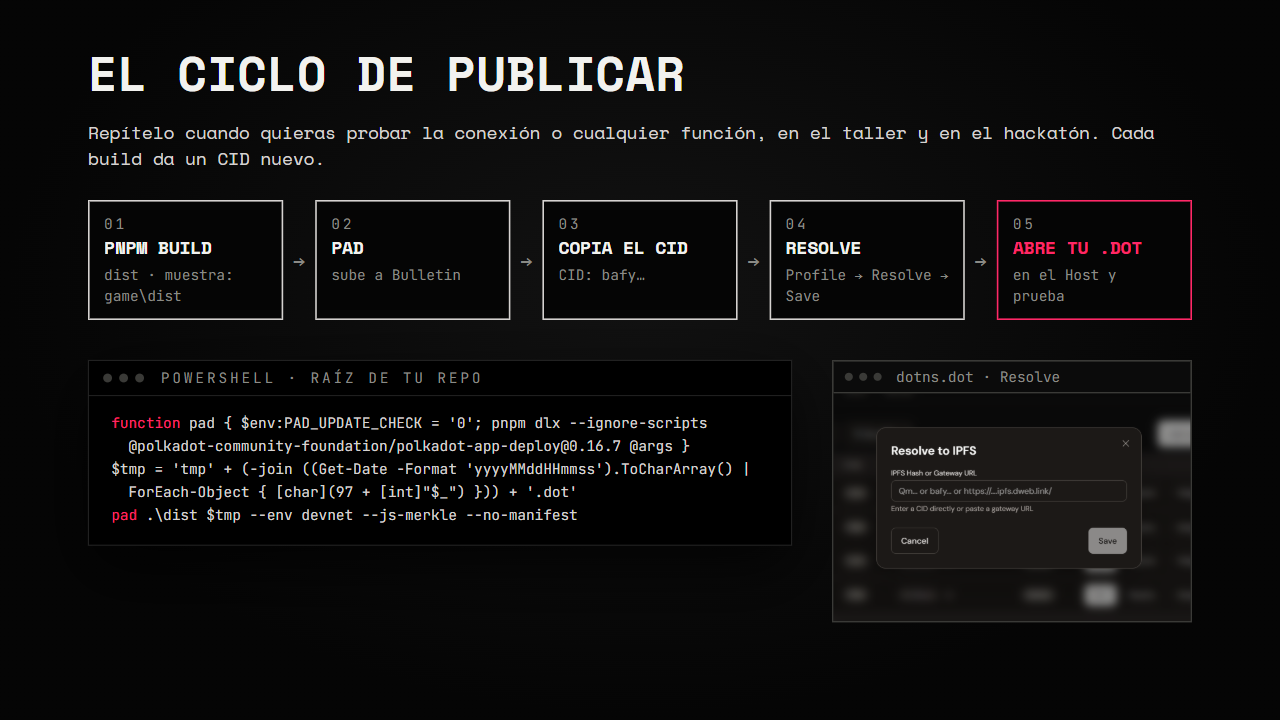
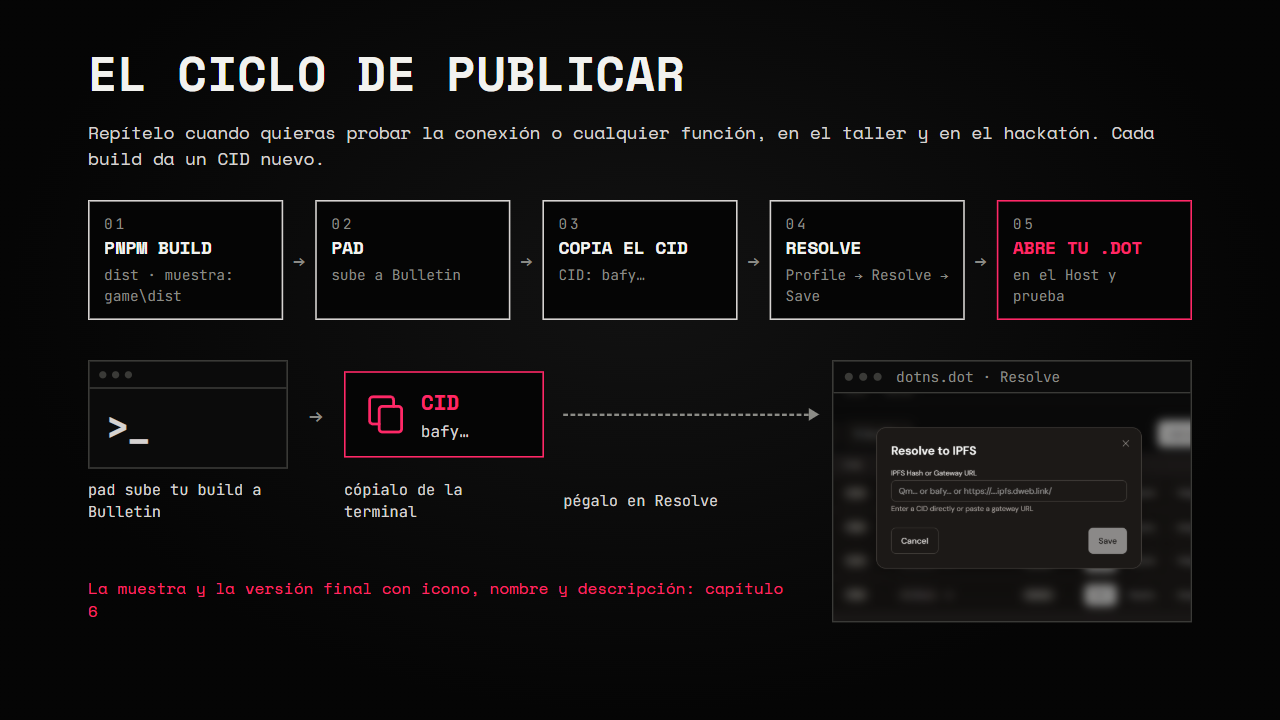
docs(slides): ajustes de diapositivas (portadas visuales, sandbox con hosts, contratos, contexto, skills, publicar)

Changed region(s): [[0.0625, 0.4889, 0.5938, 0.7333], [0.0625, 0.7944, 0.625, 0.825], [0.5938, 0.55, 0.6562, 0.5806]]

diff --git a/slides/06-publicar.html b/slides/06-publicar.html
@@ -88,12 +88,30 @@
 .j-pub span.pink { border-color: var(--accent); color: var(--accent); }
 .j-pub i { font: 700 22px var(--display); font-style: normal; color: var(--muted); }
 
+/* Teléfono */
+.j-phone { border: 2px solid #d6d3d1; border-radius: 42px; padding: 40px 14px 22px; background: #050505; position: relative; }
+.j-phone::before { content: ''; position: absolute; top: 18px; left: 50%; width: 80px; height: 8px; margin-left: -40px; border-radius: 4px; background: #2a2a2a; }
+
 /* ---------- Propias del capítulo 6 ---------- */
-/* Icono en la portada */
-.p6-tile { text-align: center; }
-.p6-tile img { display: block; width: 300px; height: 300px; margin: 0 auto; border-radius: 64px; border: 2px solid #3a3a37; }
-.p6-tile b { display: block; font: 700 30px var(--display); text-transform: uppercase; margin-top: 22px; }
-.p6-tile span { display: block; font: 20px var(--mono); color: var(--muted); margin-top: 6px; }
+/* Portada: la tarjeta de tu app sube a tu dominio */
+.p6-app { text-align: center; padding: 34px 18px 30px; }
+.p6-app img { display: block; width: 150px; height: 150px; margin: 0 auto; border-radius: 34px; border: 2px solid #3a3a37; }
+.p6-app b { display: block; font: 700 30px var(--display); margin-top: 22px; }
+.p6-app span { display: block; font: 19px/1.4 var(--mono); color: #d6d3d1; margin-top: 8px; }
+.p6-app i { display: block; font: 700 20px var(--display); font-style: normal; background: var(--accent); color: #000; padding: 12px 0; margin-top: 26px; text-transform: uppercase; }
+.p6-dom { border: 2px solid var(--accent); background: #050505; color: var(--accent); font: 700 26px var(--mono); padding: 14px 20px; text-align: center; }
+.p6-up { position: absolute; z-index: 2; width: 0; border-left: 3px dashed var(--accent); }
+.p6-up::before { content: ''; position: absolute; left: -10px; top: -4px; border: 8.5px solid transparent; border-bottom: 13px solid var(--accent); border-top: 0; }
+.p6-cloud { position: absolute; z-index: 2; width: 64px; height: 64px; fill: none; stroke: #d6d3d1; stroke-width: 3.5; stroke-linecap: round; stroke-linejoin: round; }
+
+/* Antes y después: la tarjeta a escala de slide, con callouts */
+.p6-card.big { grid-template-columns: 140px 1fr; column-gap: 28px; padding: 32px 34px; border-radius: 24px; }
+.p6-card.big .ic { width: 140px; height: 140px; border-radius: 30px; }
+.p6-card.big b { font-size: 36px; }
+.p6-card.big span { font-size: 22px; margin-top: 8px; }
+.p6-call { position: absolute; z-index: 2; font: 700 20px var(--mono); color: var(--accent); text-transform: uppercase; letter-spacing: .1em; white-space: nowrap; transform: translateX(-50%); }
+.p6-line { position: absolute; z-index: 3; width: 0; border-left: 2px solid var(--accent); }
+.p6-line::after { content: ''; position: absolute; left: -6px; bottom: -6px; width: 10px; height: 10px; border-radius: 50%; background: var(--accent); }
 
 /* Tarjeta de app dibujada */
 .p6-card { display: grid; grid-template-columns: 96px 1fr; column-gap: 22px; align-items: center; border: 2px solid #3a3a37; border-radius: 18px; background: #0b0b0b; padding: 22px 24px; }
@@ -104,10 +122,6 @@
 .p6-card span { display: block; font: 18px/1.4 var(--mono); color: #d6d3d1; margin-top: 6px; }
 .p6-card span.j-mut { color: var(--muted); }
 .p6-card.pink { border-color: var(--accent); }
-.p6-col .j-label { margin-bottom: 18px; }
-.p6-list { margin-top: 22px; }
-.p6-list > div { font: 22px var(--mono); color: #d6d3d1; padding: 16px 0; border-bottom: 1px solid var(--line); }
-.p6-list > div:first-child { border-top: 1px solid var(--line); }
 .p6-arrow { font: 700 56px var(--display); color: var(--accent); }
 
 /* Icono a dos tamaños */
@@ -172,75 +186,48 @@
 
   <!-- 1 · Portada -->
   <section class="slide" data-title="Publica tu app" style="--bgpos: 30% 70%;">
-    <div class="panel" style="left:110px; top:110px; width:820px; padding:46px 60px 50px;">
+    <div class="panel" style="left:110px; top:290px; width:820px; padding:46px 60px 50px;">
       <div class="kicker">Capítulo 06</div>
       <div class="title" style="font-size:80px;">Publica tu app</div>
       <div class="sub">En tu dominio .dot, con icono, nombre y descripción</div>
     </div>
-    <div class="item p6-tile" style="left:1060px; top:120px; width:380px;">
-      <img src="../game/assets/icono.png" alt="Icono de Polka-Man: un personaje redondo rosa comiendo dos bolitas sobre fondo negro">
-      <b>Polka-Man</b>
-      <span>polka-man.dot</span>
+    <div class="item p6-dom" style="left:1110px; top:110px; width:340px;">polka-man.dot</div>
+    <div class="p6-up" style="left:1280px; top:196px; height:88px;" aria-hidden="true"></div>
+    <svg class="p6-cloud" style="left:1310px; top:208px;" viewBox="0 0 64 64" aria-hidden="true"><path d="M20 46H16a12 12 0 0 1-1-24A16 16 0 0 1 46 20a11 11 0 0 1 2 26h-4"/><path d="M32 52V32M24 40l8-8l8 8"/></svg>
+    <div class="item" style="left:1130px; top:300px; width:300px;">
+      <div class="j-phone"><div class="p6-app">
+        <img src="../game/assets/icono.png" alt="Icono de Polka-Man: un personaje redondo rosa comiendo dos bolitas sobre fondo negro">
+        <b>Polka-Man</b>
+        <span>Juego de laberinto en Polkadot</span>
+        <i>Abrir</i>
+      </div></div>
     </div>
-    <div class="tape" style="left:170px; top:580px; transform:rotate(-4deg);">TU ICONO</div>
-    <div class="tape" style="left:1030px; top:620px; transform:rotate(5deg);">TU MANIFEST</div>
-    <div class="tape pink" style="left:560px; top:720px; transform:rotate(-3deg);">TU .DOT</div>
   </section>
 
   <!-- 2 · De probar a publicar -->
   <section class="slide plain" data-title="De probar a publicar">
     <div class="item" style="left:110px; top:70px;"><div class="h">De probar a publicar</div></div>
-    <div class="item p6-col" style="left:110px; top:190px; width:600px;">
-      <div class="j-label">Capítulo 5 · probar</div>
-      <div class="p6-card">
-        <div class="ic none"></div>
-        <div><b>tu-app.dot</b><span class="j-mut">sin icono ni descripción</span></div>
-      </div>
-      <div class="p6-list">
-        <div>pad con <span class="j-pink">--no-manifest</span></div>
-        <div>copias el CID</div>
-        <div>Resolve en tu dominio</div>
-      </div>
+    <div class="item p6-card big" style="left:110px; top:360px; width:600px;">
+      <div class="ic none"></div>
+      <div><b>tu-app.dot</b><span class="j-mut">No description</span></div>
     </div>
-    <div class="item p6-arrow" style="left:760px; top:250px;" aria-hidden="true">→</div>
-    <div class="item p6-col" style="left:890px; top:190px; width:600px;">
-      <div class="j-label">Capítulo 6 · publicar</div>
-      <div class="p6-card pink">
-        <div class="ic"><img src="../game/assets/icono.png" alt=""></div>
-        <div><b>Polka-Man</b><span>Juego de laberinto en Polkadot: come bolitas, esquiva fantasmas…</span></div>
-      </div>
-      <div class="p6-list">
-        <div>config + <span class="j-pink">APP_DOT</span></div>
-        <div>pad sube la app y el icono</div>
-        <div>Resolve + registro <span class="j-pink">manifest</span></div>
-      </div>
+    <div class="item p6-arrow" style="left:762px; top:410px; font-size:80px;" aria-hidden="true">→</div>
+    <div class="p6-call" style="left:996px; top:256px;">Icono</div>
+    <div class="p6-line" style="left:996px; top:292px; height:96px;" aria-hidden="true"></div>
+    <div class="p6-call" style="left:1150px; top:256px;">Nombre</div>
+    <div class="p6-line" style="left:1150px; top:292px; height:102px;" aria-hidden="true"></div>
+    <div class="p6-call" style="left:1350px; top:256px;">Descripción</div>
+    <div class="p6-line" style="left:1350px; top:292px; height:158px;" aria-hidden="true"></div>
+    <div class="item p6-card big pink" style="left:890px; top:360px; width:600px;">
+      <div class="ic"><img src="../game/assets/icono.png" alt="Icono de Polka-Man"></div>
+      <div><b>Polka-Man</b><span>Juego de laberinto en Polkadot</span></div>
     </div>
-    <div class="item lead" style="left:110px; top:640px; width:1380px; font-size:24px;">Mismo dominio, mismo Resolve. Solo sumas un icono, un archivo y un registro.</div>
+    <div class="item j-label" style="left:110px; top:600px;">Antes · capítulo 5, probar</div>
+    <div class="item j-label" style="left:890px; top:600px;">Después · capítulo 6, publicar</div>
+    <div class="item lead" style="left:110px; top:680px; width:1380px; font-size:24px;">Los tres salen del registro <span class="j-pink">manifest</span> de tu dominio.</div>
   </section>
 
-  <!-- 3 · Antes de publicar -->
-  <section class="slide grid" data-title="Antes de publicar">
-    <div class="item" style="left:110px; top:70px;"><div class="h">Antes de publicar</div></div>
-    <div class="item j-clip" style="left:110px; top:180px; width:800px;">
-      <div class="j-clip-top"></div>
-      <div class="j-checks">
-        <div><span class="j-box"></span><span>La dirección de tu contrato, no la de la muestra</span></div>
-        <div><span class="j-box"></span><span>Sin datos de prueba ni atajos de depuración</span></div>
-        <div><span class="j-box"></span><span>Se ve bien en un teléfono, sin partes cortadas</span></div>
-        <div><span class="j-box"></span><span>Sin secretos: ni .env ni frases de recuperación</span></div>
-        <div><span class="j-box"></span><span>git status limpio: todo con commit</span></div>
-        <div style="border-bottom:0;"><span class="j-box"></span><span>pnpm build pasa</span></div>
-      </div>
-    </div>
-    <div class="panel" style="left:970px; top:180px; width:520px; padding:30px 36px;">
-      <div class="j-blk"><b><i>01</i>Pide la revisión</b><p>El prompt de la fase 7: el agente revisa sin cambiar archivos.</p></div>
-      <div class="j-blk"><b><i>02</i>Corre</b><p>pnpm test<br>pnpm build<br>git status</p></div>
-      <div class="j-blk"><b><i>03</i>Haz commit</b><p>Publicas lo que está en tu repo.</p></div>
-    </div>
-    <div class="item lead j-mut" style="left:110px; top:740px; width:1380px; font-size:20px;">Lo que subes es público: cualquiera puede descargar tu bundle.</div>
-  </section>
-
-  <!-- 4 · Tu icono -->
+  <!-- 3 · Tu icono -->
   <section class="slide" data-title="Tu icono" style="--bgpos: 75% 25%;">
     <div class="panel" style="left:110px; top:50px; width:1380px; padding:30px 52px 34px;">
       <div class="h">Tu icono</div>
@@ -270,7 +257,7 @@
     </div>
   </section>
 
-  <!-- 5 · El archivo de publicación -->
+  <!-- 4 · El archivo de publicación -->
   <section class="slide grid" data-title="El archivo de publicación">
     <div class="item" style="left:110px; top:70px;"><div class="h">El archivo de publicación</div></div>
     <div class="item j-win" style="left:110px; top:170px; width:880px;">
@@ -300,7 +287,7 @@
     <div class="item lead" style="left:1040px; top:600px; width:450px; font-size:20px;">Lo escribes una vez y va en tu commit.</div>
   </section>
 
-  <!-- 6 · Sube app e icono -->
+  <!-- 5 · Sube app e icono -->
   <section class="slide plain" data-title="Sube app e icono">
     <div class="item" style="left:110px; top:60px;"><div class="h">Sube app e icono</div></div>
     <div class="item term" style="left:110px; top:160px; width:1380px;">
@@ -314,7 +301,7 @@
     </div>
   </section>
 
-  <!-- 7 · Pégalo en tu dominio -->
+  <!-- 6 · Pégalo en tu dominio -->
   <section class="slide" data-title="Pégalo en tu dominio" style="--bgpos: 20% 40%;">
     <div class="panel" style="left:110px; top:50px; width:1380px; padding:30px 52px 34px;">
       <div class="h">Pégalo en tu dominio</div>
@@ -333,7 +320,7 @@
     </div>
   </section>
 
-  <!-- 8 · Custom Records -->
+  <!-- 7 · Custom Records -->
   <section class="slide flat" data-title="El registro manifest">
     <div class="item" style="left:110px; top:60px;"><div class="h">El registro manifest</div></div>
     <div class="item j-win" style="left:110px; top:160px; width:408px;"><div class="j-bar"><i></i><i></i><i></i><span>dotns.dot · Edit</span></div><div class="p6-shot" role="img" aria-label="Captura de DotNS: diálogo Edit Profile Records; abajo, Custom Records con Add Record, los campos key y value, y los botones Cancel y Save"></div></div>
@@ -356,7 +343,7 @@
     </div>
   </section>
 
-  <!-- 9 · Mantenerla viva -->
+  <!-- 8 · Mantenerla viva -->
   <section class="slide plain" data-title="Mantenerla viva">
     <div class="item" style="left:110px; top:70px;"><div class="h">Mantenerla viva</div></div>
     <div class="item lead" style="left:110px; top:160px; width:1380px; font-size:22px;">Bulletin borra lo que subes a los ~14 días. Vuelve a publicar solo para renovarlo antes de esa fecha o cuando tengas una versión nueva.</div>
@@ -375,7 +362,7 @@
     </div>
   </section>
 
-  <!-- 10 · Compártela -->
+  <!-- 9 · Compártela -->
   <section class="slide grid" data-title="Compártela">
     <div class="item" style="left:110px; top:70px;"><div class="h">Compártela</div></div>
     <div class="item p6-share" style="left:110px; top:180px; width:1380px;">
@@ -397,7 +384,7 @@ Correrla: pnpm install · pnpm dev</div>
     </div>
   </section>
 
-  <!-- 11 · Si algo falla -->
+  <!-- 10 · Si algo falla -->
   <section class="slide" data-title="Si algo falla" style="--bgpos: 60% 55%;">
     <div class="panel" style="left:110px; top:50px; width:1380px; padding:28px 52px 30px;"><div class="h">Si algo falla</div></div>
     <div class="panel p6-fix" style="left:110px; top:200px; width:1380px; padding:14px 52px 20px;">
@@ -413,7 +400,7 @@ Correrla: pnpm install · pnpm dev</div>
     <div class="item p6-note" style="left:110px; top:630px; width:1380px;">Android: si la app ya estaba en tus marcadores, puede mostrar la tarjeta anterior. Quita el marcador, búscala otra vez y agrégala.</div>
   </section>
 
-  <!-- 12 · Repaso -->
+  <!-- 11 · Repaso -->
   <section class="slide flat" data-title="Repaso y lo que sigue">
     <div class="item" style="left:110px; top:70px;"><div class="h">Repaso y lo que sigue</div></div>
     <div class="item j-cyc" style="left:110px; top:180px; width:1380px;">
@@ -442,7 +429,7 @@ Correrla: pnpm install · pnpm dev</div>
   <div class="progress" id="progress"></div>
   <footer class="foot">
     <a href="../contenido/06-publicar.md">Guía: contenido/06-publicar.md</a>
-    <span><span id="count">01 / 12</span></span>
+    <span><span id="count">01 / 11</span></span>
   </footer>
 </main>
 <script src="assets/deck.js"></script>

diff --git a/slides/05-el-juego.html b/slides/05-el-juego.html
@@ -165,6 +165,30 @@
 .j-steps b { display: block; font: 700 24px var(--display); text-transform: uppercase; }
 .j-steps span { display: block; font: 19px var(--mono); color: var(--muted); margin-top: 4px; }
 .j-steps .host { color: var(--accent); }
+
+/* Portada: del prompt al contrato y a tu .dot */
+.j-link { position: absolute; z-index: 2; height: 0; border-top: 3px dashed #8b8b86; }
+.j-link::after { content: ''; position: absolute; right: -4px; top: -10px; border: 8.5px solid transparent; border-left: 13px solid #8b8b86; border-right: 0; }
+.j-ctr { border: 2px solid #d6d3d1; background: #050505; padding: 22px 28px; }
+.j-ctr b { display: block; font: 700 32px var(--display); margin-top: 8px; }
+.j-ctr span { display: block; font: 19px var(--mono); color: #d6d3d1; margin-top: 8px; }
+.j-mini-ph { padding: 36px 12px 18px; border-radius: 34px; }
+.j-mini-ph img { height: 250px; object-fit: cover; object-position: 50% 30%; }
+
+/* Ilustración de pad → CID → Resolve */
+.j-pad { display: grid; grid-template-columns: 250px 70px 250px 1fr; align-items: center; }
+.j-pad .a { font: 700 30px var(--display); color: var(--muted); text-align: center; }
+.j-pad .t { border: 2px solid #3a3a37; background: #0b0b0b; }
+.j-pad .t .j-bar { height: 34px; border-bottom: 2px solid #3a3a37; display: flex; align-items: center; gap: 7px; padding: 0 12px; }
+.j-pad .t .j-bar i { width: 9px; height: 9px; border-radius: 50%; background: #3a3a37; }
+.j-pad .t .p { font: 700 44px var(--mono); color: #d6d3d1; padding: 18px 22px 22px; }
+.j-pad .cid { border: 2px solid var(--accent); background: #050505; padding: 18px 22px; display: grid; grid-template-columns: 56px 1fr; column-gap: 16px; align-items: center; }
+.j-pad .cid svg { width: 56px; height: 56px; fill: none; stroke: var(--accent); stroke-width: 3.5; stroke-linecap: round; stroke-linejoin: round; }
+.j-pad .cid b { display: block; font: 700 26px var(--display); color: var(--accent); }
+.j-pad .cid span { display: block; font: 20px var(--mono); color: #d6d3d1; margin-top: 4px; }
+.j-pad .lb { grid-row: 2; font: 19px/1.4 var(--mono); color: #d6d3d1; margin-top: 14px; }
+.j-pad .go { position: relative; height: 0; border-top: 3px dashed #8b8b86; margin-left: 24px; margin-right: -30px; }
+.j-pad .go::after { content: ''; position: absolute; right: -4px; top: -10px; border: 8.5px solid transparent; border-left: 13px solid #8b8b86; border-right: 0; }
 </style>
 </head>
 <body>
@@ -194,9 +218,20 @@
       <svg style="position:absolute; left:370px; top:70px; width:110px; height:110px; color:#9be7b0;"><use href="#j-ghost"/></svg>
       <div style="position:absolute; left:200px; top:122px; width:18px; height:18px; border-radius:50%; background:#d6d3d1;"></div>
     </div>
-    <div class="tape" style="left:1040px; top:520px; transform:rotate(5deg);">TU CONTRATO</div>
-    <div class="tape" style="left:170px; top:560px; transform:rotate(-4deg);">TU REPO</div>
-    <div class="tape pink" style="left:640px; top:690px; transform:rotate(-3deg);">TU .DOT</div>
+    <div class="item j-cc" style="left:110px; top:540px; width:500px;">
+      <div class="j-bar"><svg width="22" height="22" aria-hidden="true"><use href="#j-cc"/></svg><span>Claude Code</span><em>~/mi-juego</em></div>
+      <div class="j-body"><div class="u">Haz un juego tipo Pac-Man para celular…</div></div>
+    </div>
+    <div class="j-link" style="left:620px; top:612px; width:70px;" aria-hidden="true"></div>
+    <div class="item j-ctr" style="left:700px; top:540px; width:380px;">
+      <div class="j-label">contrato</div>
+      <b>Leaderboard</b>
+      <span>guarda el mejor puntaje</span>
+    </div>
+    <div class="j-link" style="left:1090px; top:612px; width:90px;" aria-hidden="true"></div>
+    <div class="item" style="left:1190px; top:450px; width:260px;">
+      <div class="j-phone j-mini-ph"><div class="j-url">tu-juego.dot</div><img src="../img/cap5/polka-man-movil.png" alt="Polka-Man en el celular: el laberinto con Polka-Man rosa y los fantasmas"></div>
+    </div>
   </section>
 
   <!-- 2 · Qué vas a construir -->
@@ -286,9 +321,12 @@
   <!-- 6 · Tu repo -->
   <section class="slide plain" data-title="Tu repo">
     <div class="item" style="left:110px; top:70px;"><div class="h">Tu repo</div></div>
-    <div class="item term" style="left:110px; top:170px; width:960px;">
-      <div class="bar"><i></i><i></i><i></i><span>PowerShell, macOS o Linux</span></div>
-      <div class="body code j-cmd" style="font-size:20px;"><div><span class="kw">cd</span> polkadot-devnet-workshop   <span class="cm"># el clon del capítulo 2</span></div><div><span class="kw">cd</span> ..</div><div><span class="kw">mkdir</span> mi-juego</div><div><span class="kw">cd</span> mi-juego</div><div><span class="kw">git</span> init</div><div><span class="kw">npx</span> skills@1.7.2 add https://github.com/BrandonFilth/polkadot-products-devnet --skill polkadot-products-devnet</div><div><span class="kw">git</span> add .</div><div><span class="kw">git</span> commit -m <span class="ty">"skill del hackatón"</span></div><div><span class="kw">gh</span> repo create mi-juego --public --source=. --push</div></div>
+    <div class="panel j-steps" style="left:110px; top:170px; width:960px; padding:10px 40px;">
+      <div><span class="c">01</span><div><b>Crea la carpeta</b><span>mi-juego, junto al clon del curso</span></div></div>
+      <div><span class="c">02</span><div><b>git init</b><span>empieza el historial</span></div></div>
+      <div><span class="c">03</span><div><b>Instala la skill</b><span>polkadot-products-devnet</span></div></div>
+      <div><span class="c">04</span><div><b>Primer commit</b><span>la skill queda guardada</span></div></div>
+      <div class="pink"><span class="c">05</span><div><b>Crea el repo en GitHub</b><span>y sube el commit</span></div></div>
     </div>
     <div class="item j-win" style="left:1120px; top:170px; width:370px;">
       <div class="j-bar"><i></i><i></i><i></i><span>tu carpeta</span></div>
@@ -299,7 +337,7 @@
     └── skills-lock.json</div>
     </div>
     <div class="item lead" style="left:1120px; top:470px; width:370px; font-size:20px;"><span class="j-code">mi-juego</span> queda junto a <span class="j-code">polkadot-devnet-workshop</span>.</div>
-    <div class="panel" style="left:110px; top:650px; width:1380px; padding:24px 52px;">
+    <div class="panel" style="left:110px; top:690px; width:1380px; padding:24px 52px;">
       <div class="lead" style="font-size:24px;">Después: define tu juego → <span class="j-code j-pink">SPEC.md</span> → commit + push. Luego, una fase por commit.</div>
     </div>
   </section>
@@ -413,17 +451,11 @@
       <div class="a">→</div>
       <div class="j-stage pink"><div class="n">03</div><b>Un solo archivo</b><span>la dirección vive en un solo lugar de tu juego</span></div>
     </div>
-    <div class="item j-rows" style="left:110px; top:430px; width:880px;">
-      <div style="grid-template-columns:260px 1fr;"><span class="k">Contrato nuevo</span><span>tu ranking empieza vacío</span></div>
-      <div style="grid-template-columns:260px 1fr;"><span class="k">MetaMask</span><span>es otro jugador</span></div>
-      <div style="grid-template-columns:260px 1fr;"><span class="k">Leer</span><span>sin firma: se prueba con pnpm dev</span></div>
-      <div style="grid-template-columns:260px 1fr;"><span class="k">El contrato</span><span>no sabe si el puntaje es legítimo</span></div>
-    </div>
-    <div class="item j-win" style="left:1060px; top:430px; width:430px;">
-      <div class="j-bar"><i></i><i></i><i></i><span>Top 10</span></div>
-      <div class="j-body">
-        <div class="j-empty">Todavía no hay récords.<br>Juega y sé el primero.</div>
-      </div>
+    <div class="item j-rows" style="left:110px; top:430px; width:1380px;">
+      <div style="grid-template-columns:300px 1fr; padding:20px 0;"><span class="k">Contrato nuevo</span><span>tu ranking empieza vacío</span></div>
+      <div style="grid-template-columns:300px 1fr; padding:20px 0;"><span class="k">MetaMask</span><span>es otro jugador</span></div>
+      <div style="grid-template-columns:300px 1fr; padding:20px 0;"><span class="k">Leer</span><span>sin firma: se prueba con pnpm dev</span></div>
+      <div style="grid-template-columns:300px 1fr; padding:20px 0;"><span class="k">El contrato</span><span>no sabe si el puntaje es legítimo</span></div>
     </div>
   </section>
 
@@ -465,9 +497,14 @@
       <div class="a">→</div>
       <div class="box pink"><div class="n">05</div><b>Abre tu .dot</b><span>en el Host y prueba</span></div>
     </div>
-    <div class="item term" style="left:110px; top:450px; width:880px;">
-      <div class="bar"><i></i><i></i><i></i><span>PowerShell · raíz de tu repo</span></div>
-      <div class="body code j-cmd"><div><span class="kw">function</span> pad { $env:PAD_UPDATE_CHECK = '0'; pnpm dlx --ignore-scripts @polkadot-community-foundation/polkadot-app-deploy@0.16.7 @args }</div><div>$tmp = 'tmp' + (-join ((Get-Date -Format 'yyyyMMddHHmmss').ToCharArray() | ForEach-Object { [char](97 + [int]"$_") })) + '.dot'</div><div><span class="kw">pad</span> .\dist $tmp --env devnet --js-merkle --no-manifest</div></div>
+    <div class="item j-pad" style="left:110px; top:450px; width:880px;">
+      <div class="t"><div class="j-bar"><i></i><i></i><i></i></div><div class="p">&gt;_</div></div>
+      <div class="a" aria-hidden="true">→</div>
+      <div class="cid"><svg viewBox="0 0 56 56" aria-hidden="true"><rect x="20" y="18" width="28" height="32" rx="4"/><path d="M38 18V10a4 4 0 0 0-4-4H12a4 4 0 0 0-4 4v26a4 4 0 0 0 4 4h8"/></svg><div><b>CID</b><span>bafy…</span></div></div>
+      <div class="go" aria-hidden="true"></div>
+      <div class="lb" style="grid-column:1;">pad sube tu build a Bulletin</div>
+      <div class="lb" style="grid-column:3;">cópialo de la terminal</div>
+      <div class="lb" style="grid-column:4; padding-left:24px;">pégalo en Resolve</div>
     </div>
     <div class="item lead" style="left:110px; top:720px; width:880px; font-size:20px;"><span class="j-pink">La muestra y la versión final con icono, nombre y descripción: capítulo 6</span></div>
     <div class="item j-win j-shot" style="left:1040px; top:450px; width:450px;">
